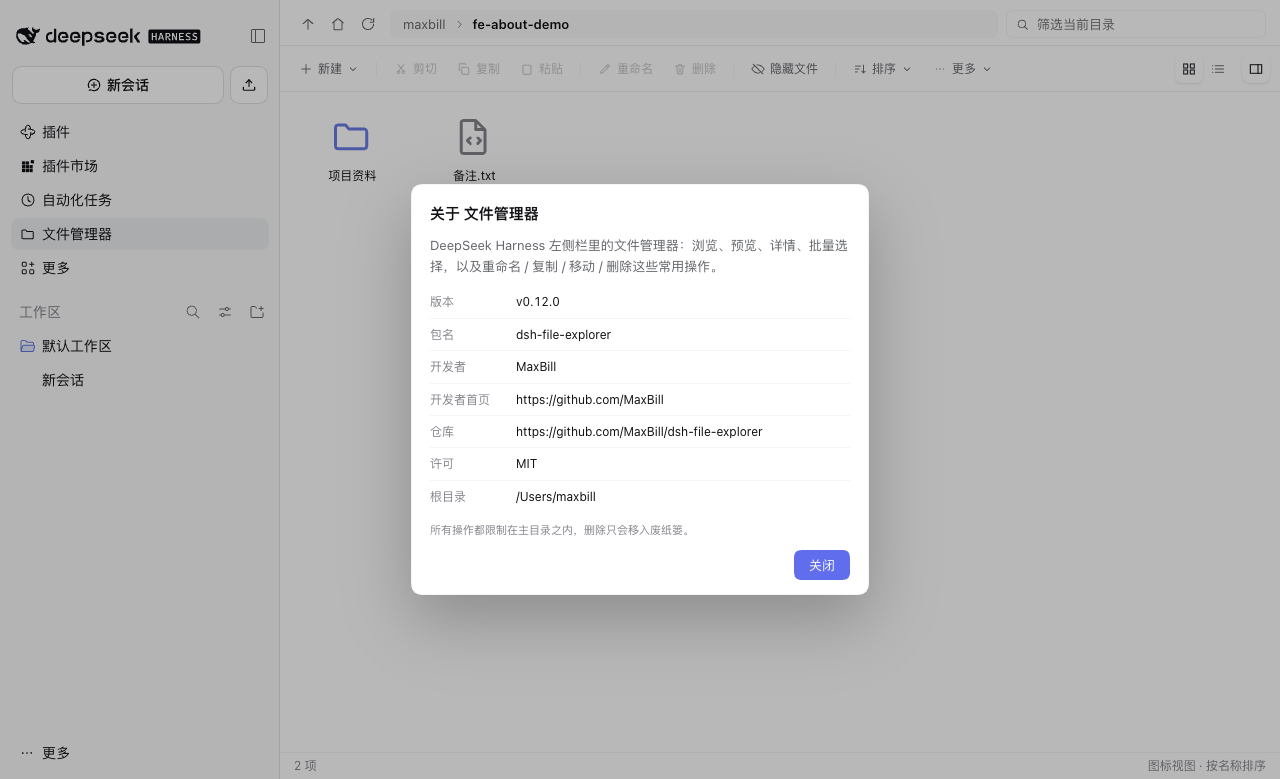
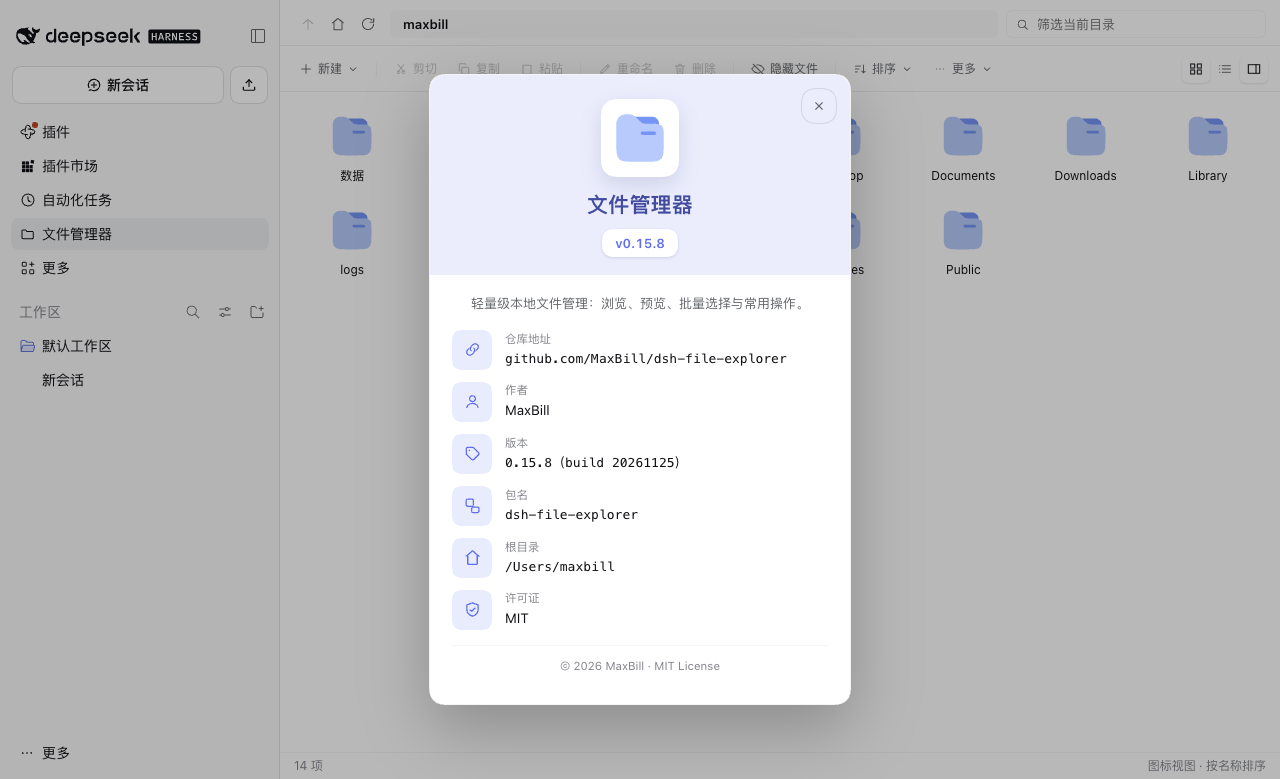
feat: redesign the About window
Follows the mockup: a tinted header holding the folder badge, the name and a
version pill, then centred blurb and six icon+label+value rows (repository,
author, version with build date, package name, browsing root, licence), and a
divider over the copyright line. The only button is the round close control in
the header, so Esc and backdrop clicks stay the other two ways out.

- /meta now returns a build stamp (package.json mtime, YYYYMMDD) for the
  version row
- four glyphs added for the rows and the close control: link/user/tag/shield
  plus close
- colours come from the theme brand with color-mix, falling back to plain
  literals where color-mix is unavailable
- docs/about.png refreshed; both READMEs describe the new layout

diff --git a/lib/client.js b/lib/client.js
@@ -71,6 +71,7 @@ window.__ModuleLoader__.load({
   color: var(--dsw-alias-label-primary, #1b1b1b);
   font-size: 13px;
   line-height: 1.45;
+  --dfx-brand: var(--dsw-alias-bg-brand, #3b6cf6);
 }
 .dfx-bar {
   display: flex; align-items: center; gap: 8px; padding: 10px 14px 8px; flex: 0 0 auto;
@@ -282,17 +283,70 @@ window.__ModuleLoader__.load({
 .dfx-btn--danger:hover:not(:disabled) { background: var(--dsw-alias-bg-danger-hover, #c5433f); }
 .dfx-btn--danger:active:not(:disabled) { background: var(--dsw-alias-bg-danger-hover, #c5433f); filter: brightness(.92); }
 .dfx-btn:disabled { opacity: .5; cursor: default; }
-.dfx-about { width: 420px; }
-.dfx-about-blurb { color: var(--dsw-alias-label-secondary, #5c5c5c); line-height: 1.6; }
-.dfx-about-rows { display: flex; flex-direction: column; }
-.dfx-about-row {
-  display: grid; grid-template-columns: 76px minmax(0, 1fr); gap: 10px; align-items: baseline;
-  padding: 7px 0; border-bottom: 1px solid var(--dsw-alias-border-l1, rgba(0, 0, 0, .06)); font-size: 12px;
+.dfx-about {
+  width: min(420px, calc(100vw - 40px)); padding: 0; gap: 0; overflow: hidden; border-radius: 20px;
 }
-.dfx-about-row:last-child { border-bottom: 0; }
-.dfx-about-label { color: var(--dsw-alias-label-tertiary, #8f8f8f); }
-.dfx-about-value { color: var(--dsw-alias-label-primary, #1b1b1b); word-break: break-all; user-select: text; font-variant-numeric: tabular-nums; }
-.dfx-about-note { color: var(--dsw-alias-label-tertiary, #8f8f8f); font-size: 11px; }
+.dfx-about-head {
+  position: relative; padding: 22px 22px 18px; text-align: center;
+  background: rgba(59, 108, 246, .11);
+  background: color-mix(in srgb, var(--dfx-brand) 12%, transparent);
+}
+.dfx-about-close {
+  position: absolute; top: 13px; right: 13px; width: 36px; height: 36px; padding: 0;
+  display: grid; place-items: center; border-radius: 50%; cursor: pointer;
+  border: 1px solid var(--dsw-alias-border-l2, rgba(0, 0, 0, .18));
+  background: transparent; color: var(--dsw-alias-label-secondary, #5c5c5c);
+  transition: background .12s ease, color .12s ease;
+}
+.dfx-about-close:hover {
+  background: var(--dsw-alias-bg-layer-3, rgba(0, 0, 0, .06));
+  color: var(--dsw-alias-label-primary, #1b1b1b);
+}
+.dfx-about-badge {
+  width: 78px; height: 78px; margin: 2px auto 12px; display: grid; place-items: center;
+  border-radius: 20px; background: var(--dsw-alias-bg-layer-1, #fff);
+  box-shadow: 0 8px 20px rgba(20, 50, 110, .14);
+}
+.dfx-about-name {
+  margin: 0 0 10px; font-size: 21px; font-weight: 650; letter-spacing: .01em;
+  color: var(--dsw-alias-label-primary, #10233f);
+  color: color-mix(in srgb, var(--dfx-brand) 64%, var(--dsw-alias-label-primary, #10233f));
+}
+.dfx-about-version {
+  display: inline-flex; align-items: center; height: 28px; padding: 0 13px; border-radius: 999px;
+  font-size: 13px; font-weight: 600; font-variant-numeric: tabular-nums;
+  background: var(--dsw-alias-bg-layer-1, #fff); color: var(--dfx-brand);
+  box-shadow: 0 1px 3px rgba(20, 50, 110, .16);
+}
+.dfx-about-body {
+  display: flex; flex-direction: column; gap: 15px; padding: 18px 22px 14px;
+  background: var(--dsw-alias-bg-layer-1, #fff);
+}
+.dfx-about-blurb {
+  margin: 0; text-align: center; font-size: 13px; line-height: 1.65;
+  color: var(--dsw-alias-label-secondary, #5c5c5c);
+}
+.dfx-about-rows { display: flex; flex-direction: column; gap: 12px; }
+.dfx-about-row { display: grid; grid-template-columns: 40px minmax(0, 1fr); gap: 13px; align-items: center; }
+.dfx-about-ico {
+  width: 40px; height: 40px; display: grid; place-items: center; border-radius: 12px;
+  background: rgba(59, 108, 246, .12);
+  background: color-mix(in srgb, var(--dfx-brand) 13%, transparent);
+  color: var(--dfx-brand);
+}
+.dfx-about-text { min-width: 0; display: flex; flex-direction: column; gap: 2px; }
+.dfx-about-label { font-size: 11.5px; color: var(--dsw-alias-label-tertiary, #8f8f8f); }
+.dfx-about-value {
+  font-size: 13px; line-height: 1.45; color: var(--dsw-alias-label-primary, #1b1b1b);
+  word-break: break-all; user-select: text;
+  font-family: ui-monospace, SFMono-Regular, "SF Mono", Menlo, monospace;
+}
+.dfx-about-value--text { font-family: inherit; font-size: 13.5px; }
+.dfx-about-foot {
+  padding: 12px 22px 16px; border-top: 1px solid var(--dsw-alias-border-l1, rgba(0, 0, 0, .08));
+  text-align: center; font-size: 11.5px; color: var(--dsw-alias-label-tertiary, #9a9a9a);
+  background: var(--dsw-alias-bg-layer-1, #fff);
+}
 `;
 
     /**
@@ -447,6 +501,10 @@ window.__ModuleLoader__.load({
       sortIcon: ["M4 7h9", "M4 12h6", "M4 17h3", "M18 5.5v13", "M15 15.5l3 3 3-3"],
       moreIcon: ["M6 12h.01", "M12 12h.01", "M18 12h.01"],
       pane: ["M3.5 5.5h17v13h-17z", "M15 5.5v13"],
+      close: ["M7 7l10 10", "M17 7L7 17"],
+      user: ["M12 12.2a3.7 3.7 0 1 0 0-7.4 3.7 3.7 0 0 0 0 7.4", "M4.8 19.6c.7-3.3 3.7-5.2 7.2-5.2s6.5 1.9 7.2 5.2"],
+      tag: ["M4.2 12.6V5.7A1.5 1.5 0 0 1 5.7 4.2h6.9l7.2 7.2a1.5 1.5 0 0 1 0 2.1l-6.3 6.3a1.5 1.5 0 0 1-2.1 0z", "M8.1 8.1h.01"],
+      shield: ["M12 3.6 4.8 6.2v5.9c0 4.2 3 7.3 7.2 8.4 4.2-1.1 7.2-4.2 7.2-8.4V6.2z", "M8.9 12.2l2.1 2.1 4.1-4.2"],
     };
 
     /**
@@ -686,32 +744,45 @@ window.__ModuleLoader__.load({
     function AboutDialog(props) {
       var meta = props.meta || {};
       var author = meta.author && typeof meta.author === "object" ? meta.author : null;
-      var repoUrl = String((meta.repository && meta.repository.url) || "git+https://github.com/MaxBill/dsh-file-explorer.git").replace(/^git\+/, "").replace(/\.git$/, "");
-      var homeUrl = (author && author.url) || meta.homepage || "https://github.com/MaxBill";
+      var repoUrl = String((meta.repository && meta.repository.url) || "git+https://github.com/MaxBill/dsh-file-explorer.git")
+        .replace(/^git\+/, "").replace(/\.git$/, "").replace(/^https?:\/\//, "");
+      var authorName = (author && author.name) || (typeof meta.author === "string" ? meta.author : "MaxBill");
+      var version = meta.version || "—";
+      var build = meta.build ? "（build " + meta.build + "）" : "";
       var rows = [
-        ["版本", meta.version ? "v" + meta.version : "读取中…"],
-        ["包名", meta.name || "dsh-file-explorer"],
-        ["开发者", author ? author.name : "MaxBill"],
-        ["开发者首页", homeUrl],
-        ["仓库", repoUrl],
-        ["许可", meta.license || "MIT"],
-        ["根目录", meta.root || "—"],
+        { label: "仓库地址", glyph: "link", value: repoUrl },
+        { label: "作者", glyph: "user", value: authorName, text: true },
+        { label: "版本", glyph: "tag", value: version + build },
+        { label: "包名", glyph: "squares", value: meta.name || "dsh-file-explorer" },
+        { label: "根目录", glyph: "home", value: meta.root || "—" },
+        { label: "许可证", glyph: "shield", value: meta.license || "MIT", text: true },
       ];
       return h("div", {
         className: "dfx-overlay",
         onMouseDown: function (event) { if (event.target === event.currentTarget) props.onClose(); },
       },
         h("div", { className: "dfx-dialog dfx-about", role: "dialog", "aria-modal": "true", "aria-label": "关于 文件管理器" },
-          h("div", { className: "dfx-dialog-title" }, "关于 文件管理器"),
-          h("div", { className: "dfx-about-blurb" }, "DeepSeek Harness 左侧栏里的文件管理器：浏览、预览、详情、批量选择，以及重命名 / 复制 / 移动 / 删除这些常用操作。"),
-          h("div", { className: "dfx-about-rows" }, rows.map(function (row) {
-            return h("div", { key: row[0], className: "dfx-about-row" },
-              h("span", { className: "dfx-about-label" }, row[0]),
-              h("span", { className: "dfx-about-value" }, row[1]));
-          })),
-          h("div", { className: "dfx-about-note" }, "所有操作都限制在主目录之内，删除只会移入废纸篓。"),
-          h("div", { className: "dfx-dialog-actions" },
-            h("button", { type: "button", className: "dfx-btn dfx-btn--primary", onClick: props.onClose }, "关闭"))));
+          h("div", { className: "dfx-about-head" },
+            h("button", {
+              type: "button",
+              className: "dfx-about-close",
+              "aria-label": "关闭关于",
+              onClick: props.onClose,
+            }, glyph("close", 16)),
+            h("div", { className: "dfx-about-badge" }, icon(SHAPES.folderFilled, 54)),
+            h("h2", { className: "dfx-about-name" }, "文件管理器"),
+            h("span", { className: "dfx-about-version" }, "v" + version)),
+          h("div", { className: "dfx-about-body" },
+            h("p", { className: "dfx-about-blurb" }, "轻量级本地文件管理：浏览、预览、批量选择与常用操作。"),
+            h("div", { className: "dfx-about-rows" }, rows.map(function (row) {
+              return h("div", { key: row.label, className: "dfx-about-row" },
+                h("span", { className: "dfx-about-ico" }, glyph(row.glyph, 19)),
+                h("div", { className: "dfx-about-text" },
+                  h("span", { className: "dfx-about-label" }, row.label),
+                  h("span", { className: "dfx-about-value" + (row.text ? " dfx-about-value--text" : "") }, row.value)));
+            })),
+            h("div", { className: "dfx-about-foot" },
+              "© " + new Date().getFullYear() + " " + authorName + " · " + (meta.license || "MIT") + " License"))));
     }
 
     /**

diff --git a/lib/index.js b/lib/index.js
@@ -270,8 +270,19 @@ async function listDirectory(dir) {
  * @returns {Promise<object>} name, version, description, author, links
  */
 async function readMeta() {
-  const raw = await readFile(new URL('../package.json', import.meta.url), 'utf8')
+  const file = new URL('../package.json', import.meta.url)
+  const raw = await readFile(file, 'utf8')
   const pkg = JSON.parse(raw)
+  let build = null
+  try {
+    const info = await stat(file)
+    const stamp = new Date(info.mtimeMs)
+    build = String(stamp.getFullYear()) +
+      String(stamp.getMonth() + 1).padStart(2, '0') +
+      String(stamp.getDate()).padStart(2, '0')
+  } catch {
+    build = null
+  }
   return {
     name: pkg.name,
     version: pkg.version,
@@ -280,6 +291,7 @@ async function readMeta() {
     homepage: pkg.homepage,
     repository: pkg.repository,
     license: pkg.license,
+    build,
     root: ROOT,
   }
 }

diff --git a/README.md b/README.md
@@ -24,7 +24,7 @@ Repository: <https://github.com/MaxBill/dsh-file-explorer> · Developer: [MaxBil
 - **View modes** — the two icons at the far right of the toolbar switch **icons / list** (⌘1 icons, ⌘2 list, Ctrl on Windows). **Icons is the default**: the folder lays out as a grid. The list shows name, type, size and modified time in one row. The choice is remembered for the next session.
 - **Hidden files** — dotfiles are hidden by default; the 隐藏文件 button in the toolbar shows them.
 - **Status bar** — item count, selection size and clipboard on the left; the current view mode and sort key on the right.
-- **About** — 更多 → 关于 文件管理器… opens an About window with the version, package name, developer, repository, licence and browsing root, all read from `package.json` so it cannot drift from the release.
+- **About** — 更多 → 关于 文件管理器… opens an About window with a tinted header (icon, name, version pill) over rows for the repository, author, version with build date, package name, browsing root and licence, all read from `package.json` so it cannot drift from the release.
 - **Preview** — text files up to 512 KB render as monospace text, images up to 8 MB render inline from a data URL, anything else shows its metadata. The preview icon at the far right of the toolbar collapses or restores the right-hand pane; collapsed, the list takes the full width.
 - **Details pane** — right-click "显示详情", or flip the right pane to 详情, to see name, type, size, location, created, modified and permissions. Folders have no preview, so selecting one shows its details (size reads as an item count).
 - **Quick toolbar** — **新建** (new folder / new file) first, then cut, copy, paste, rename and delete, then **排序** (name / size / modified) and **更多** (undo, select all, deselect all, invert selection, options) on the right. Buttons grey out when nothing is selected.

diff --git a/README.zh.md b/README.zh.md
@@ -24,7 +24,7 @@
 - **显示视图**：工具栏最右侧两个图标切换 **图标 / 列表**（`⌘1` 图标、`⌘2` 列表，Windows 上是 `Ctrl`）。**图标视图是默认**，文件夹以图标网格铺开；列表视图一行给全 **名称 / 类型 / 大小 / 修改时间**。选择会记住，下次打开还是上次的视图。
 - **隐藏文件开关**：默认隐藏 `.dotfile`，工具栏「隐藏文件」一键显示。
 - **状态栏**：左侧是条目数、已选数量与总大小、剪贴板内容；右侧显示当前视图与排序方式，开启隐藏文件时也会提示。
-- **关于**：工具栏「更多 → 关于 文件管理器…」打开关于窗口，显示版本、包名、开发者、仓库、许可与浏览根目录（信息直接读 `package.json`，不会和版本号脱节）。
+- **关于**：工具栏「更多 → 关于 文件管理器…」打开关于窗口：浅色页头放图标、名称与版本胶囊，下面是仓库地址、作者、版本（含构建日期）、包名、根目录与许可证（信息直接读 `package.json`，不会和版本号脱节）。
 - **预览**：文本文件（≤ 512 KB）直接显示，图片（≤ 8 MB）以内联 data URL 显示，其余显示元信息。工具栏最右侧的预览图标可一键**收起 / 展开**右侧面板，收起后列表占满整宽。
 - **详情面板**：右键「显示详情」，或在右侧面板切到「详情」，查看 **名称 / 类型 / 大小 / 位置 / 创建时间 / 修改时间 / 权限**；文件夹没有预览，选中即自动显示详情（大小位置显示条目数）。
 - **快捷工具栏**：**新建**（文件夹 / 文件）、剪切、复制、粘贴、重命名、删除，然后是 **排序**（名称 / 大小 / 修改时间）与 **更多**（撤销、全部选择、全部取消、反向选择、选项）。未选中条目时相关按钮自动置灰。
